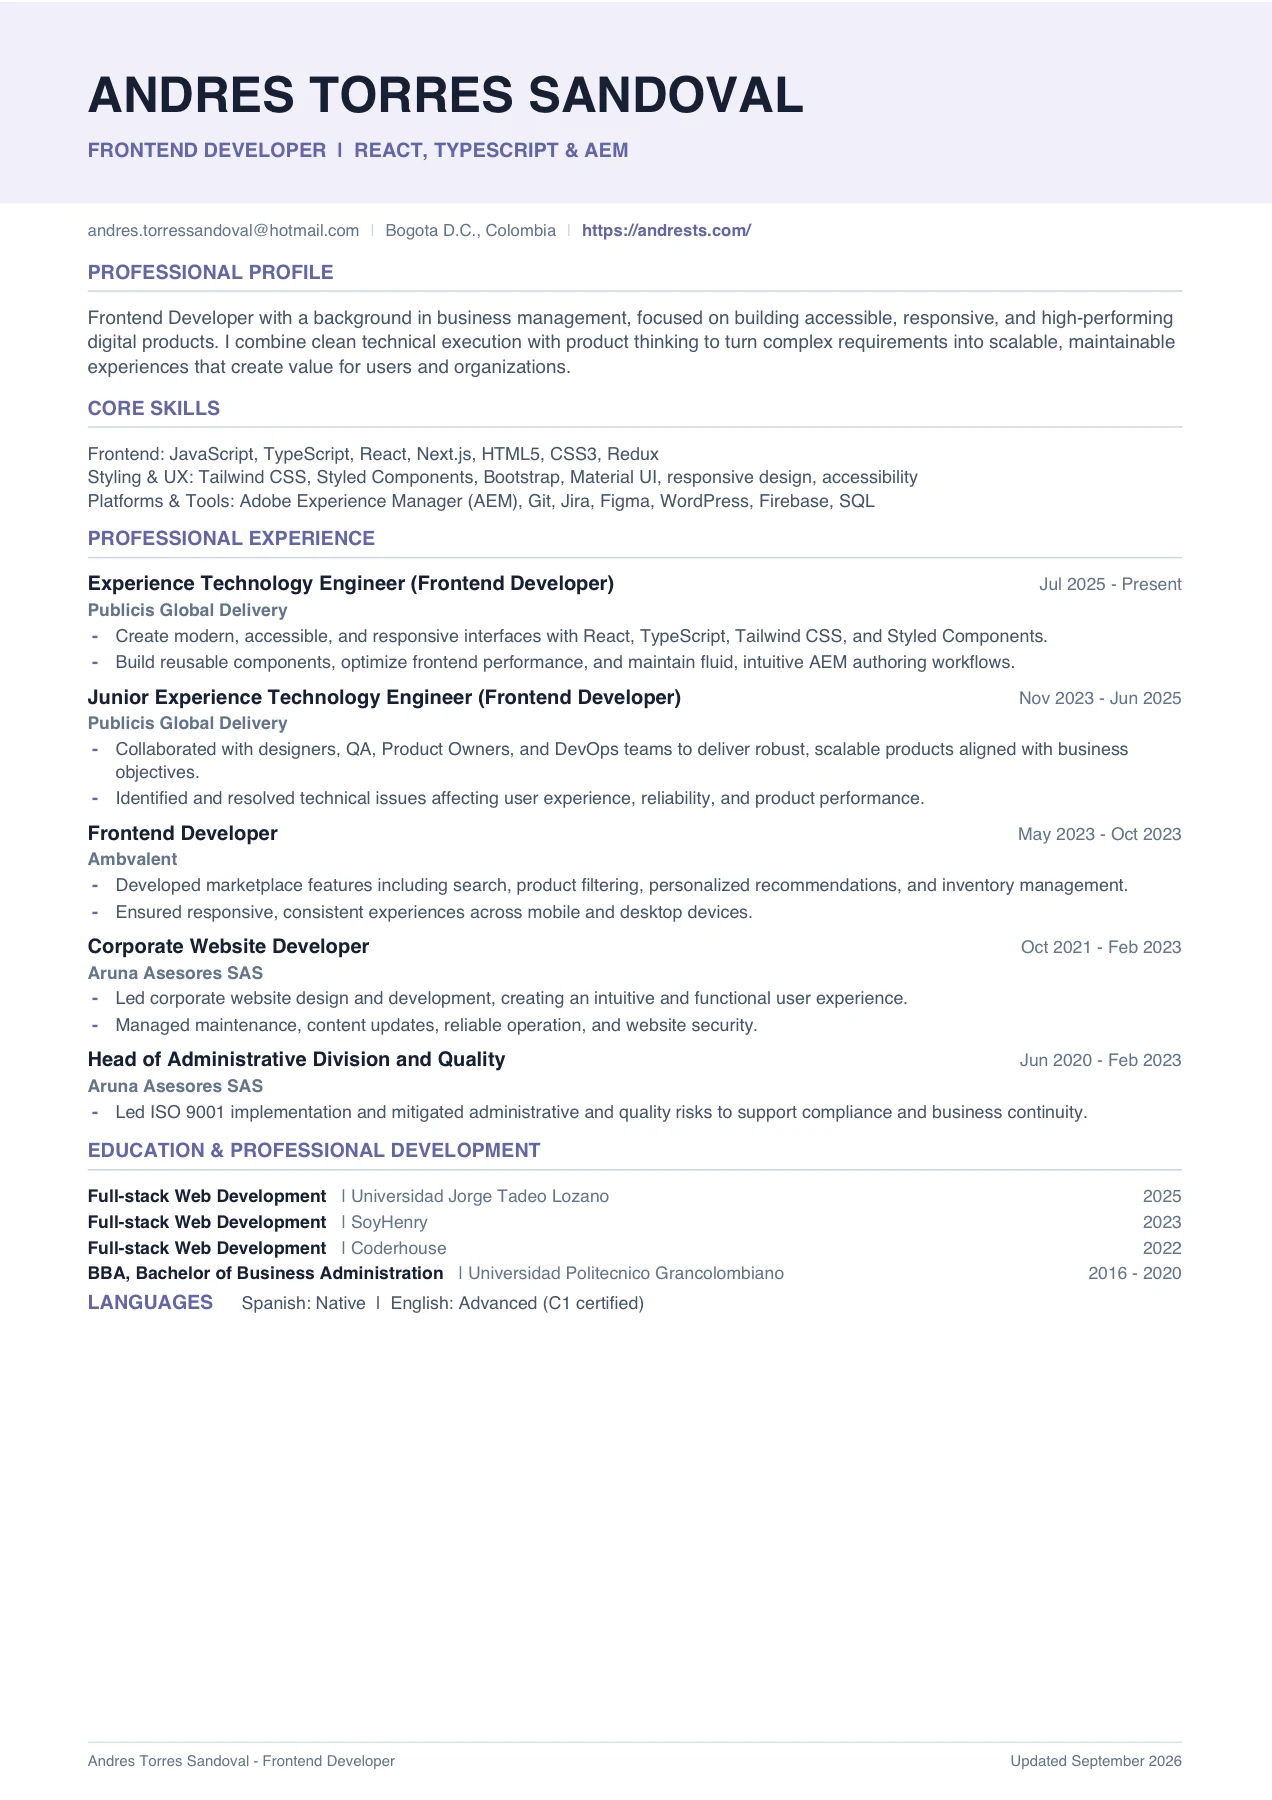
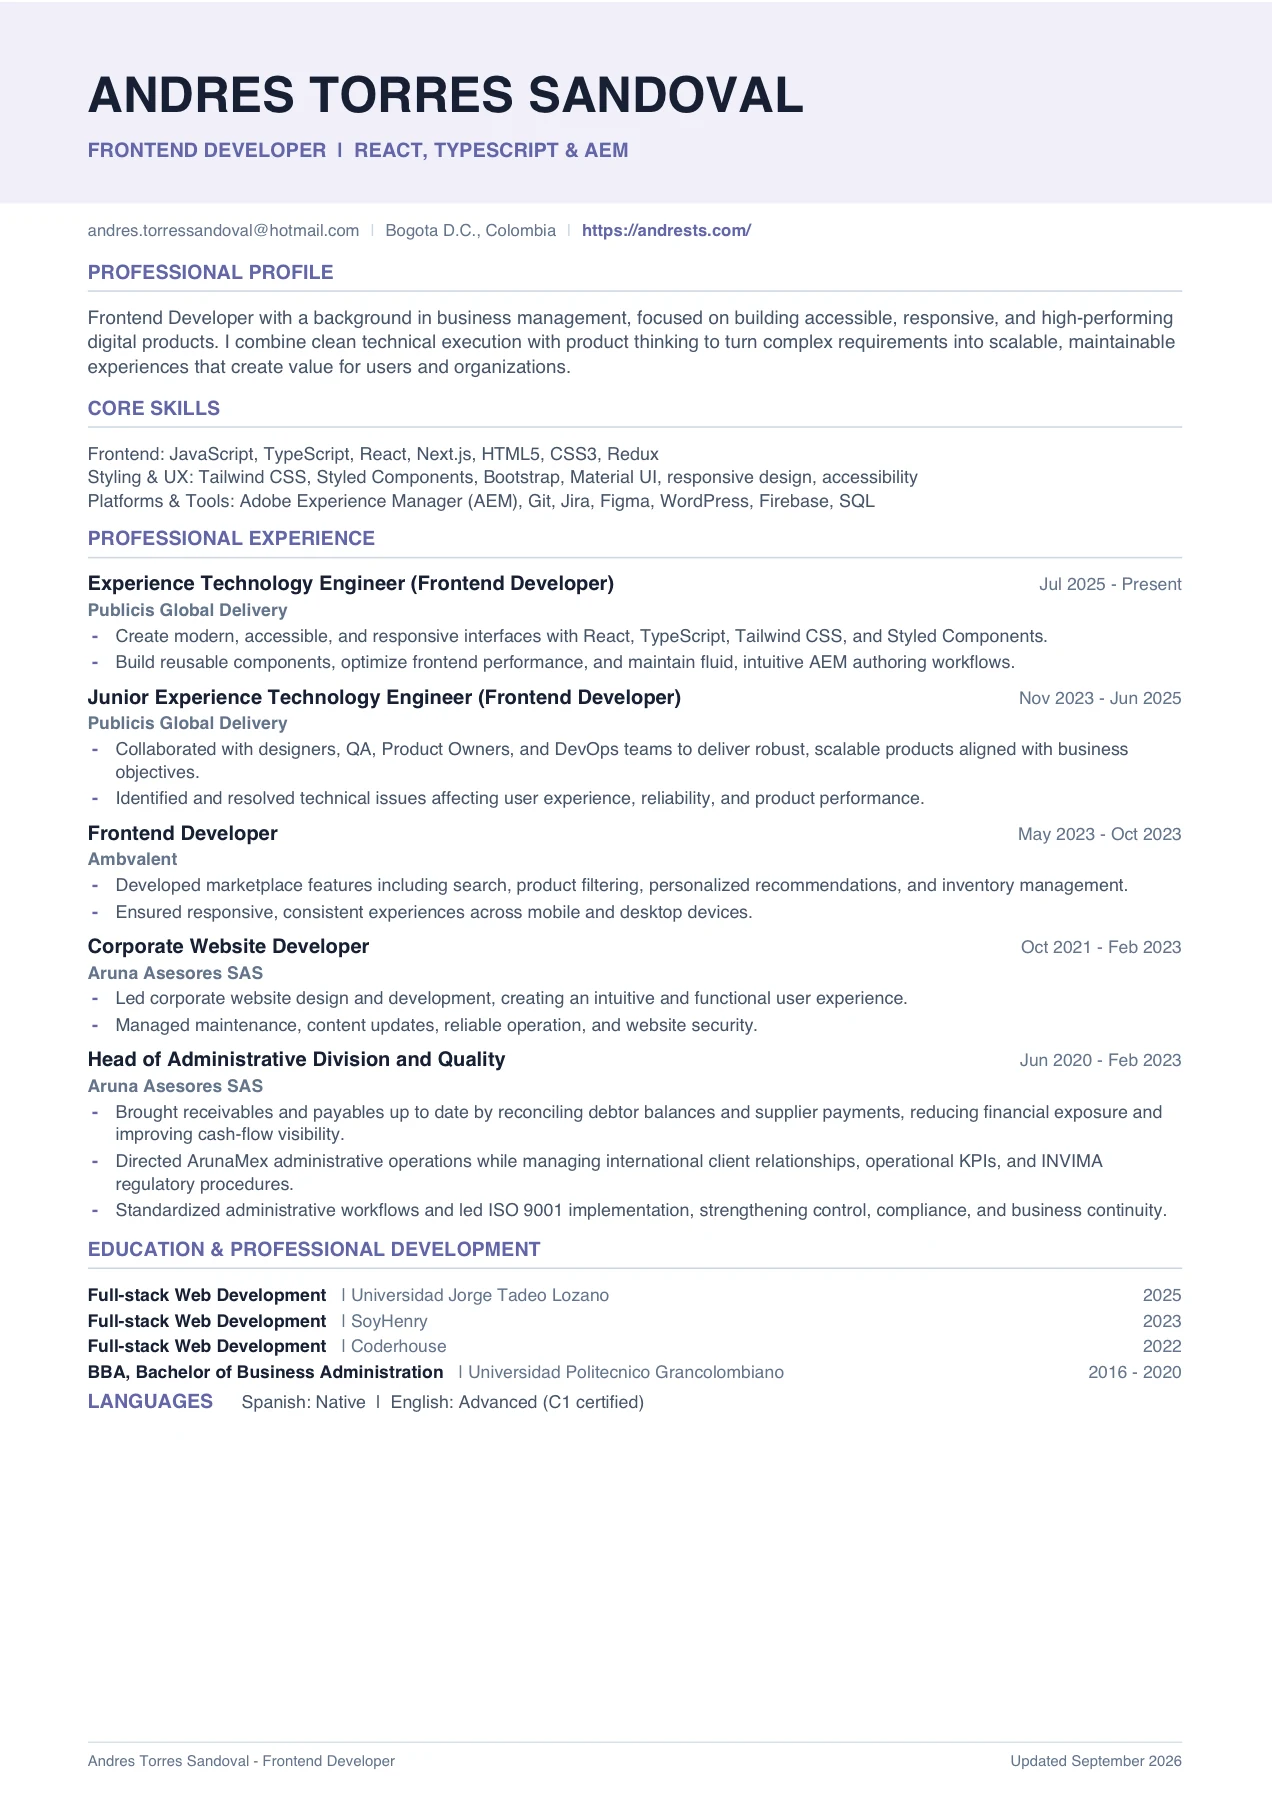
Expand administrative achievements

Changed region(s): [[0.0613, 0.5911, 0.8585, 0.7778], [0.8585, 0.6533, 0.9198, 0.7778], [0.5825, 0.7467, 0.6132, 0.7778]]

diff --git a/src/data/experienceData.js b/src/data/experienceData.js
@@ -50,8 +50,13 @@ export const experienceData = [
         startYear: 'Jun 2020',
         endYear: 'Feb 2023',
         achievements: [
-            'Led the implementation of systems such as ISO 9001, ensuring regulatory compliance and improving internal process quality.',
-            'Identified, evaluated, and mitigated administrative and quality risks to ensure business continuity.'
+            'Brought accounts receivable and payable records up to date by reconciling debtor balances and supplier payments, reducing financial exposure and improving cash-flow visibility.',
+            'Directed administrative operations for ArunaMex, the company’s Mexico branch, ensuring continuity, control, and the correct execution of day-to-day processes.',
+            'Designed operational KPIs to measure internal performance, improve management visibility, and support data-driven decision-making.',
+            'Managed operational relationships with international clients, coordinating requirements and maintaining reliable service continuity.',
+            'Monitored regulatory filings and procedures with INVIMA, supporting timely completion and ongoing compliance.',
+            'Standardized and documented administrative workflows, leaving an organized and sustainable operating structure.',
+            'Led ISO 9001 implementation, strengthening process quality, regulatory alignment, and business continuity.'
         ]
     }
 ]
